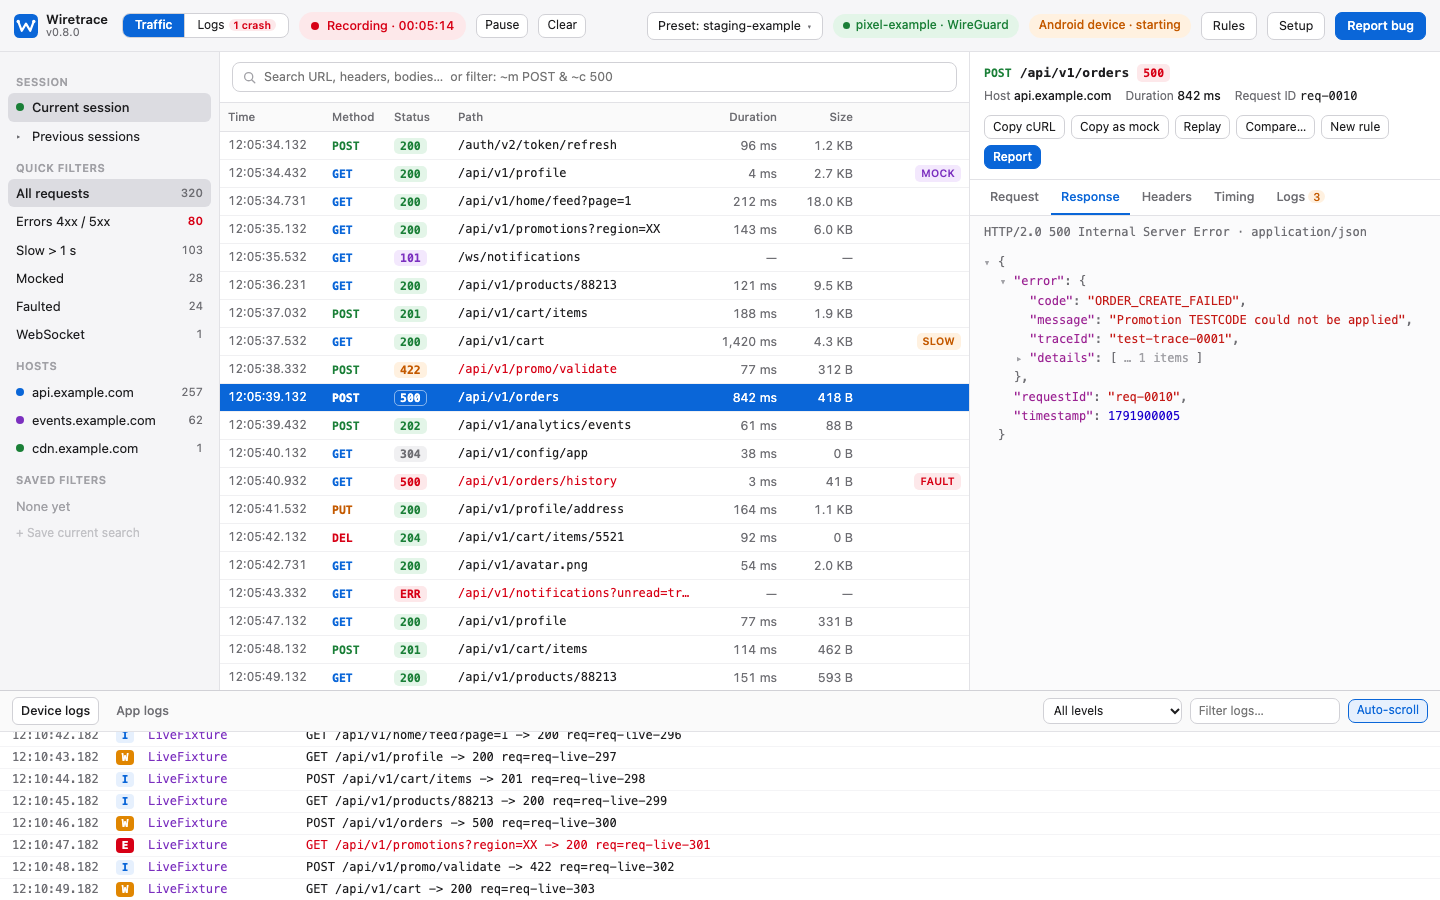
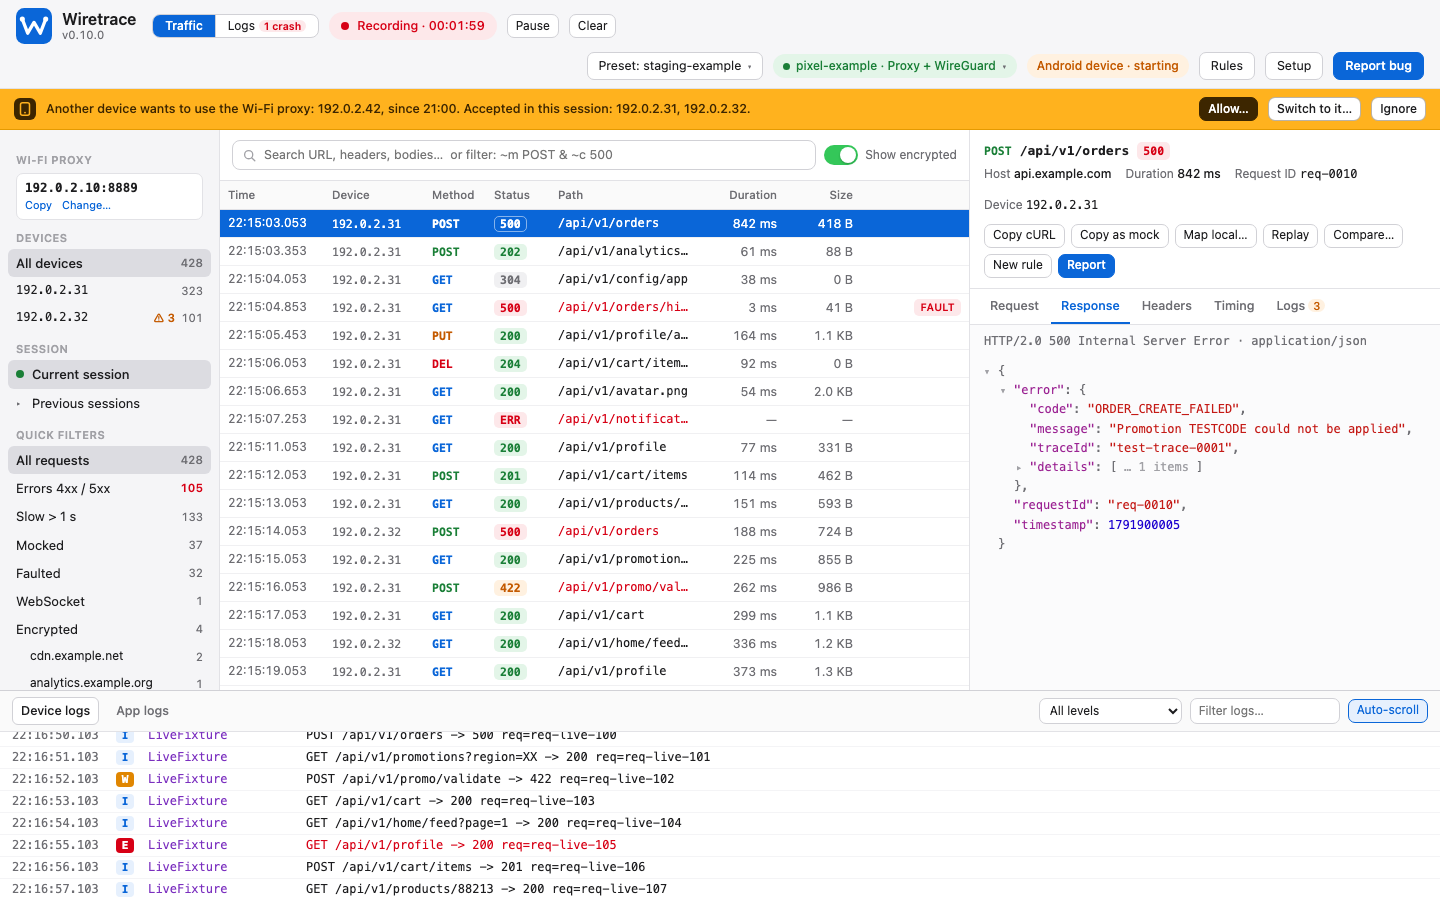
docs: show 0.10.0 screenshots in the README instead of built-screen mockups
The README showed a 0.8.0 screenshot and design mockups for screens that are
now built, so readers saw a UI that no longer matches. Screens 1-4 and 5a are
now 1440x900 screenshots of 0.10.0 from the dev fixtures (all data fake);
screens 5 and 6 stay mockups since they are not built.

The dev fixtures now give requests two accepted Wi-Fi devices, so the Device
column is filled, and the bug report draft takes its version from the fixture
state instead of a hardcoded 0.8.0.

diff --git a/README.md b/README.md
@@ -191,16 +191,13 @@ changed or not saved.
 
 ## Design
 
-**The Wiretrace window today** (screenshot of 0.8.0 with the sample data in
-[`ui/dev/fixtures/`](ui/dev/fixtures/); every host, token and device in it is fake)
+Screens 1 to 4 and 5a below are **screenshots of Wiretrace 0.10.0** with the sample data in
+[`ui/dev/fixtures/`](ui/dev/fixtures/); every host, token and device in them is fake.
+Screens 5 and 6 are **design mockups**: they show where Wiretrace is going, and their data is
+illustrative. The mockups of every screen, with their source and notes, are in
+[`mockups/`](mockups/README.md).
 
-![Wiretrace 0.8.0 main window with sample data](docs/images/traffic.png)
-
-The images below are **design mockups**, not screenshots of the current product. All data
-in them is illustrative. They show where Wiretrace is going; the Wiretrace window (preview)
-builds screens 1 to 4. Source and notes: [`mockups/`](mockups/README.md).
-
-| Mockup | Status |
+| Screen | Status |
 |---|---|
 | 1. Main window | Built: previous sessions (read-only), saved filters, search in headers and bodies, filter chips, replay, compare. The title bar's preset label is a menu: another preset saves this session and starts a new one, and the phone stays connected; *Edit presets…* and *New preset…* open the preset form (screen 7). The target pill is a device menu too: another device saves this session and starts one for that device, with the same preset and mode. Differences: saved filters are kept by the browser, per preset, not on disk; replaying anything but GET, HEAD and OPTIONS asks for confirmation. |
 | 2. Device and app logs | Built: device status pill and picker, timeline, crash folding, tag and linked-request filters, line detail. Difference: the picker shows the other log sources and the `--target` to use; it does not switch the collector while Wiretrace runs. |
@@ -209,29 +206,29 @@ builds screens 1 to 4. Source and notes: [`mockups/`](mockups/README.md).
 | 5. Send a bug report to YouTrack or Jira | Built: form to copy into YouTrack or Jira (screen 5a): title and description in Markdown or Jira wiki, masked HAR and log downloads, Android and Simulator screenshots. Not built: sending directly, signing in to the tracker, iPhone screenshots. |
 | 6. Menu-bar app | Built: status item while `./wiretrace start --ui wiretrace` runs (`--no-menu-bar` turns it off). Differences: no *Pause recording* (the window's Pause only freezes its list); *Show last error* instead of *Report last error*; the device line is target, mode and model. |
 
-**1. Main window** (design mockup)
+**1. Main window** (screenshot, 0.10.0)
 
-![Design mockup: main window](mockups/screens/01-main-window.png)
+![Wiretrace 0.10.0 main window with sample data](docs/images/traffic.png)
 
-**2. Device and app logs** (design mockup)
+**2. Device and app logs** (screenshot, 0.10.0)
 
-![Design mockup: device and app logs](mockups/screens/02-device-app-logs.png)
+![Wiretrace 0.10.0 device logs with a crash line selected](docs/images/logs.png)
 
-**3. Device setup wizard** (design mockup)
+**3. Device setup wizard** (screenshot, 0.10.0)
 
-![Design mockup: device setup wizard](mockups/screens/03-device-setup-wizard.png)
+![Wiretrace 0.10.0 setup wizard, connect step for an iPhone over the Wi-Fi proxy](docs/images/setup.png)
 
-**4. Mock and fault rules editor** (design mockup)
+**4. Mock and fault rules editor** (screenshot, 0.10.0)
 
-![Design mockup: mock and fault rules editor](mockups/screens/04-mock-fault-rules.png)
+![Wiretrace 0.10.0 rules view with a Rewrite rule open](docs/images/rules.png)
 
 **5. Bug report to YouTrack or Jira** (design mockup; sending directly is not built yet)
 
 ![Design mockup: bug report to YouTrack or Jira](mockups/screens/05-bug-report.png)
 
-**5a. Bug report form, copy and download** (design mockup)
+**5a. Bug report form, copy and download** (screenshot, 0.10.0)
 
-![Design mockup: bug report form to copy into YouTrack or Jira](mockups/screens/05a-bug-report-form.png)
+![Wiretrace 0.10.0 bug report form to copy into YouTrack or Jira](docs/images/bug-report.png)
 
 **6. Menu-bar app** (design mockup)
 
